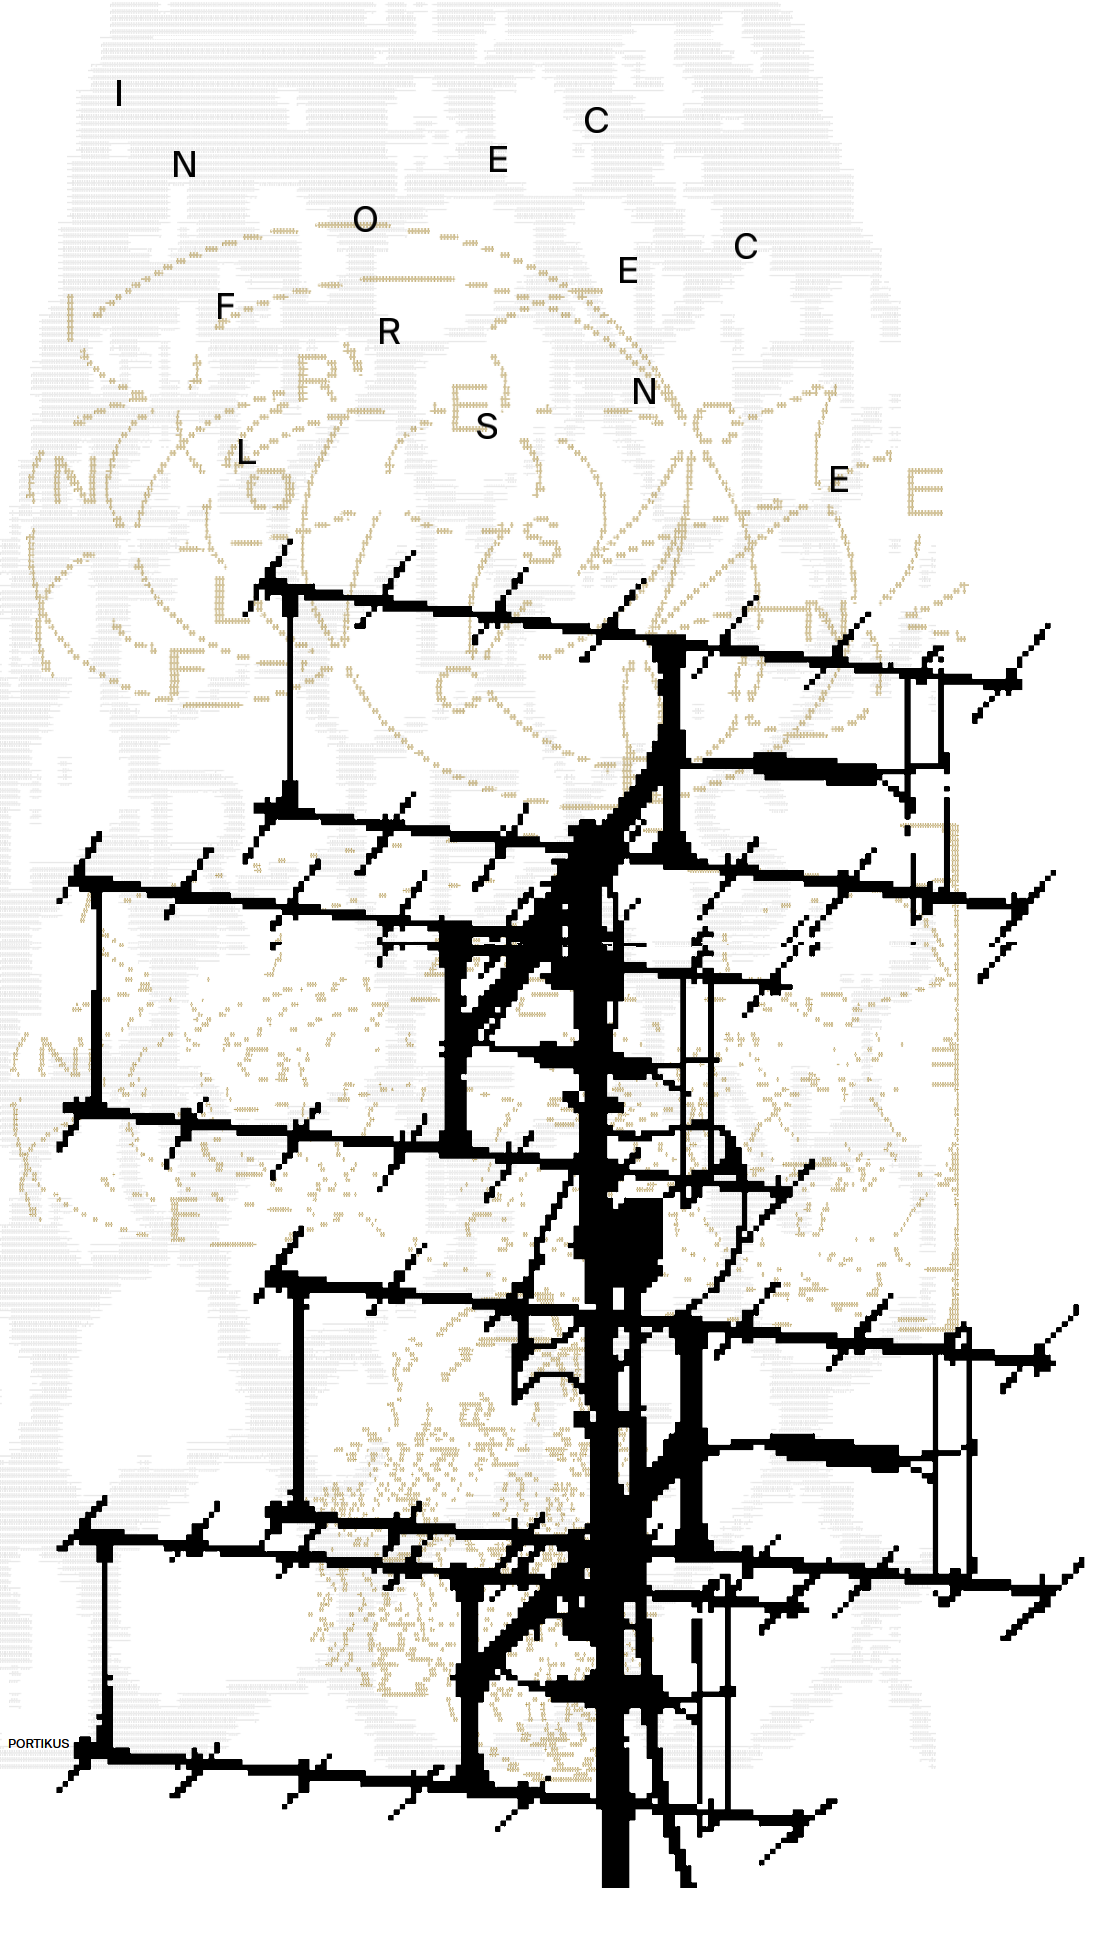
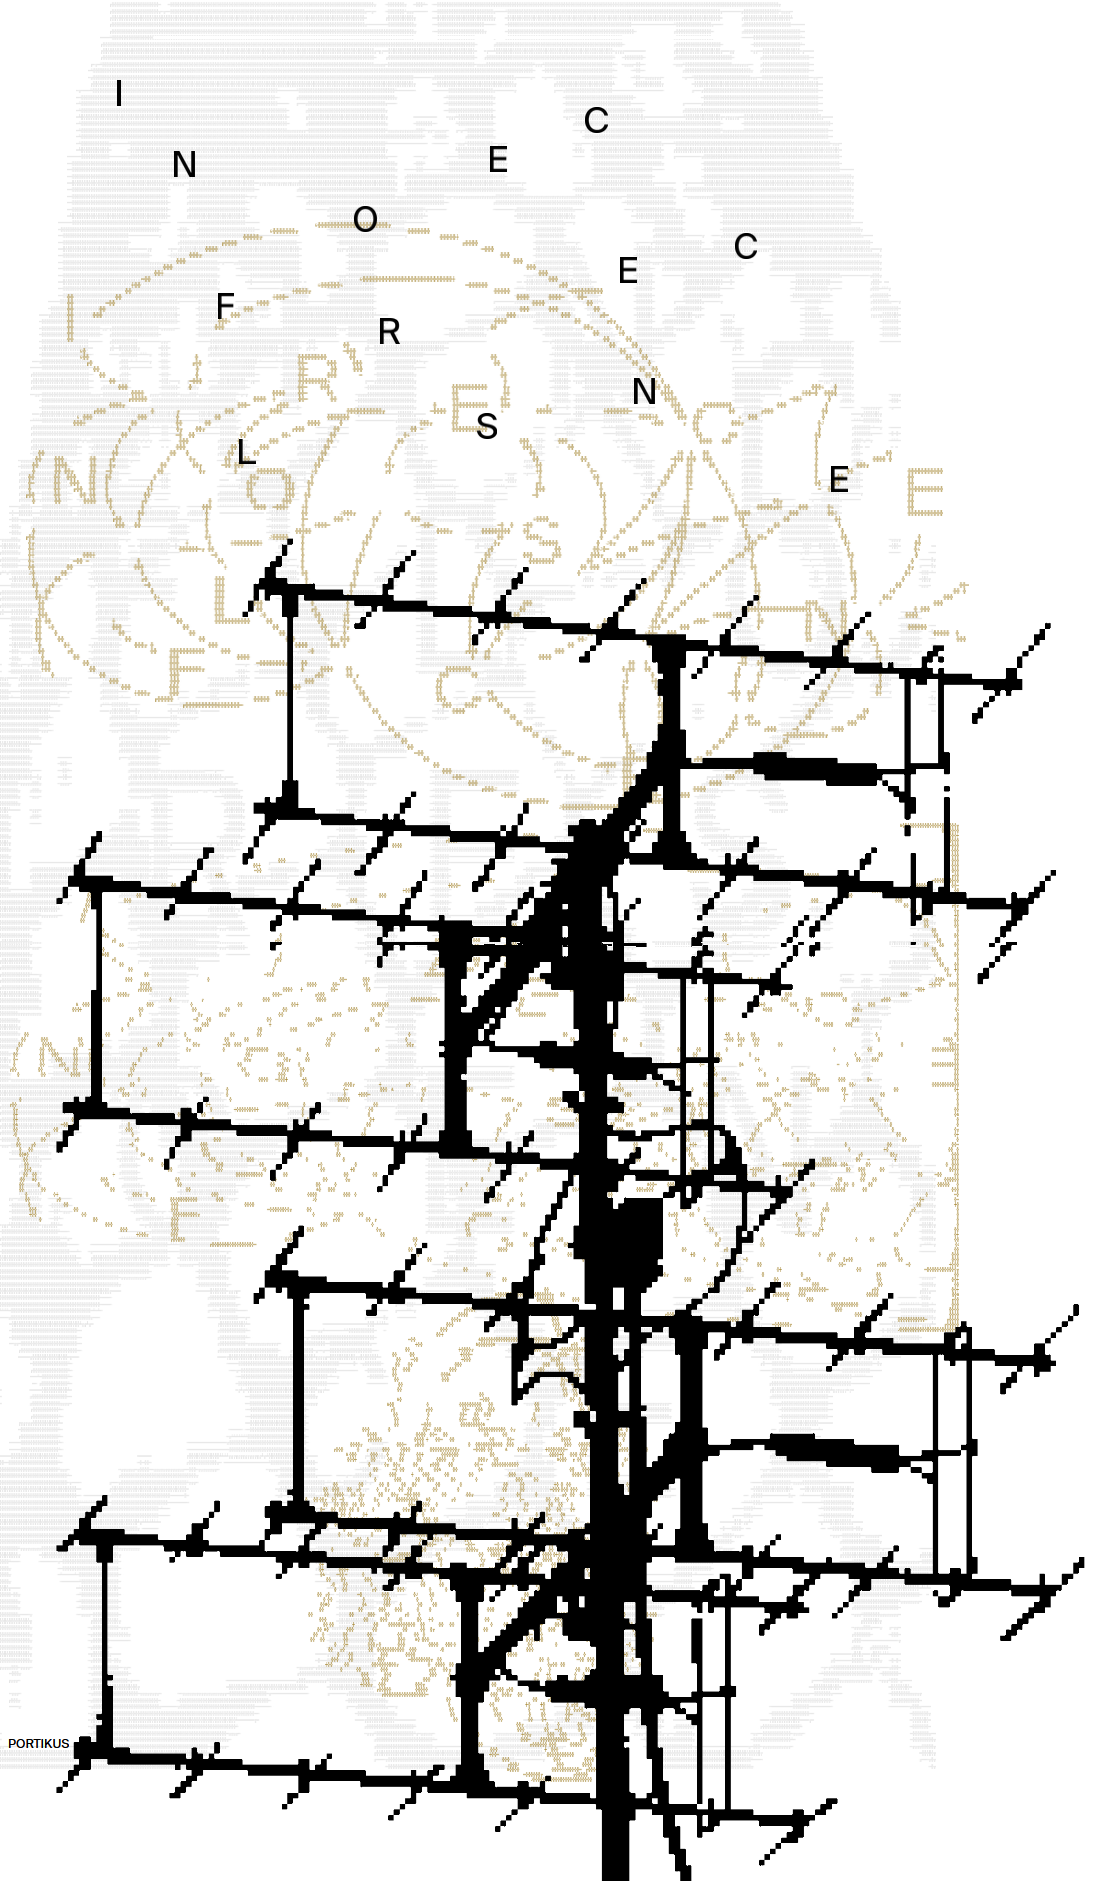
Correciones

diff --git a/About.html b/About.html
@@ -1,0 +1,115 @@
+<!DOCTYPE html>
+<html lang="en">
+<head>
+    <meta charset="UTF-8">
+    <meta http-equiv="X-UA-Compatible" content="IE=edge">
+    <meta name="viewport" content="width=device-width, initial-scale=1.0">
+    <script src="https://kit.fontawesome.com/a062562745.js" crossorigin="anonymous"></script>
+    <title>PORTIKUS</title>
+    <link rel="stylesheet" href="./image/favi.png" type="image/x-icon">
+    <link rel="stylesheet" href="./css/estilos3.css">
+    <link rel="stylesheet" href="./css/normalize.css">
+    <link rel=stylesheet href="./css/audioplayer.css" media=all>
+    <link rel="stylesheet" href="responsive-nav.css">
+    <script src="responsive-nav.js"></script>
+
+</head>
+<body>
+<header class="hero">
+    <nav class="nav container">
+        <div class="nav__logo">
+            <h2 class="nav__title" style="color:black">INFLORESCENCE</h2>
+            <h2 class="nav__title" style="color:black">Ximena Garrido-Lecca</h2>
+        </div>
+
+        <ul class="nav__link nav__link--menu">
+            <li class="nav__items">
+                <a href="About.html" class="nav__links">About</a>
+            </li>
+            <li class="nav__items">
+                <a href="Archive.html" class="nav__links">Archive</a>
+            </li>
+            <li class="nav__items">
+                <a href="index.html" class="nav__links">PORTIKUS</a>
+            </li>
+
+        </ul>
+        <div class="pulse red live" style="display:inline-block">
+            <span style="color:black">...LIVE</span>
+        </div>
+
+        <audio id="player" src="http://radioinflorescence.out.airtime.pro:8000/radioinflorescence_a"
+               type="audio/ogg" style="display: inline-block"></audio>
+        <div>
+            <button onclick="document.getElementById('player').play()">▷</button>
+            <button onclick="document.getElementById('player').pause()">☐</button>
+            <button onclick="document.getElementById('player').volume += 0.1">Vol +</button>
+            <button onclick="document.getElementById('player').volume -= 0.1">Vol -</button>
+        </div>
+        </div>
+
+    </nav>
+</header>
+<div class="container2">
+    <div class="container__text">
+        <h1>INFLORESCENCE</h1><br>
+        <p>Corn is one of the most important crops in the global economy. While it held a cen-tral position in<br>
+            pre-Columbian mythology and was a major source of nourishment, its origin as a plant native to the
+            Americas<br>
+            has been widely overlooked. Considered the origin of humanity by the Aztecs and Maya, the cultivation of<br>
+            corn has shaped all as-pects of life for millennia, from social environments to the measurements of time. In<br>
+            Ximena Garrido-Lecca’s exhibition Inflorescence at Portikus, the artist explores the crop’s multilayered<br>
+            meanings in relation to ancient beliefs, the colonial appropriation of knowledge and wealth, and the<br>
+            processes of modernization.<br><br>
+
+            Conceived in the fall months, the harvesting season of maize in Europe, the exhibi-tion links
+            traditional<br>
+            techniques of stacking and threshing corn in Latin America with the telecommunication infrastructures
+            that<br>
+            populate today’s rural areas. A series of sculptures made of corn plants from the fields of Hesse are<br>
+            mounted with antennas and megaphones that emit radio interferences as well as Mayan myths encrypted in Morse<br>
+            code. Composed of maize modules, vases, and stones, the circular threshing floor is a place for
+            gathering<br>
+            and regular activations for the production of the tradi-tional Peruvian drink chicha de jora (corn
+            beer).<br>
+            Regarded as the beverage of the gods by ancient civilizations, chicha de jora today is still a symbol of<br>
+            hospitality. By enhanc-ing ancient rituals centered around corn, systems of communication and the
+            commu-nal<br>
+            value of broadcasting, Garrido-Lecca creates a site where cultural transmissions and social exchanges
+            can<br>
+            take place. Considering cultural institutions not only pro-duce but also transmit knowledge, Portikus<br>
+            features a radio station over the course of the show. Radio Inflorescence is a bi-weekly program, comprising<br>
+            a series of com-missioned podcasts, material from the sound archives from Fonoteca Nacional de México
+            and<br>
+            shows developed in collaboration with the Frankfurt-based EOS Radio (www.eosradio.de) and Radio X (FM
+            91,8MHz).<br><br>
+
+            Inflorescence reflects on the radical shifts in our relationship to the natural world, fol-lowing industrial<br>
+            revolutions, social paradigms, and the current configuration of the information age. Both haystacks and<br>
+            antennas are also evocative of the rural land-scape, whose abandonment by capitalism has been a
+            continuous<br>
+            thread in the artist’s work.<br><br>
+
+            Ximena Garrido-Lecca (b. 1980 in Lima, Peru) is an artist based in Mexico City, Mexico. Her works have
+            been<br>
+            exhibited among others at the Museo Madre, Naples (2021), the 34th Bienal de São Paulo (2020), Museo de Arte<br>
+            Contemporáneo, Lima (2019), Museo de Arte Latinoamericano de Buenos Aires (2018), Sala de Arte Público<br>
+            Siqueiros (SAPS), Mexico City (2017). Inflorescence is the artist’s first institutional solo exhibition
+            in<br>
+            Germany.<br><br><br><br><br><br><br>
+        </p>
+        <div>
+            <h3>PORTIKUS Alte Brücke 2 / Maininsel 60594 Frankfurt am Main Germany</h3><br>
+            <h3 style="color:#a2832e">OPENING HOURS Tue–Fri 12–19h | Sat–Sun 11–19h</h3><br><br>
+        </div>
+    </div>
+    <script type="text/javascript">
+        window.addEventListener("scroll", function () {
+            var header = document.querySelector("nav");
+            header.classList.toggle("abajo", window.scrollY > 0);
+        })
+    </script>
+    <script src="./js/menu.js"></script>
+</div>
+</body>
+</html>

diff --git a/Archive.html b/Archive.html
@@ -7,7 +7,7 @@
     <script src="https://kit.fontawesome.com/a062562745.js" crossorigin="anonymous"></script>
     <title>PORTIKUS</title>
     <link rel="stylesheet" href="./image/favi.png" type="image/x-icon">
-    <link rel="stylesheet" href="./css/estilos.css">
+    <link rel="stylesheet" href="./css/estilos2.css">
     <link rel="stylesheet" href="./css/normalize.css">
     <link rel=stylesheet href="./css/audioplayer.css" media=all>
     <link rel="stylesheet" href="responsive-nav.css">
@@ -38,7 +38,7 @@
             <span style="color:black">...LIVE</span>
         </div>
 
-        <audio autoplay src="http://radioinflorescence.out.airtime.pro:8000/radioinflorescence_a"
+        <audio id="player" src="http://radioinflorescence.out.airtime.pro:8000/radioinflorescence_a"
                type="audio/ogg" style="display: inline-block"></audio>
         <div>
             <button onclick="document.getElementById('player').play()">▷</button>
@@ -51,37 +51,69 @@
     </nav>
 </header>
 
-
-<div class="container2">
-    <div class="container__text">
-        <h2 class="container__title">CREDITS</h2>
-        <h3 class="container__description">Director</h3>
-        <h4 class="container__description">Yasmil Raymond</h4><br>
-        <h3 class="container__description">Curators</h3>
-        <h4 class="container__description">Liberty Adrien & Carina Bukuts</h4><br>
-        <h3 class="container__description">PROJECT COORDINATION</h3>
-        <h4 class="container__description">Claudia Famulok & Nils Fock</h4><br>
-        <h3 class="container__description">PRESS</h3>
-        <h4 class="container__description">Mira Starke</h4><br>
-        <h3 class="container__description">TEACHER/PRODUCTION</h3>
-        <h4 class="container__description">Stefan Wleland</h4><br><br>
-
-        <div class="container2">
-            <h2>Upcoming broadcastings</h2>
-            <h4 style="color:#a2832e">25.11.22 | 02.12.22 | 09.12.22 | 23.12.22 | 06.01.23 | 13.01.23 | 27.01.23 |
-                03.02.23
-            </h4>
+<div class="audio--player" style="margin-top: 150px">
+    <audio id="myAudio" ontimeupdate="onTimeUpdate()">
+        <source id="source-audio" src="" type="audio/mpeg">
+    </audio>
+    <div class="player-ctn">
+        <div class="infos-ctn">
+            <div class="timer">00:00</div>
+            <div class="title"></div>
+            <div class="duration">00:00</div>
         </div>
+        <div id="myProgress">
+            <div id="myBar"></div>
+        </div>
+        <div class="btn-ctn">
+            <div class="btn-action first-btn" onclick="previous()">
+                <div id="btn-faws-back">
+                    <i class='fas fa-step-backward'></i>
+                </div>
+            </div>
+            <div class="btn-action" onclick="rewind()">
+                <div id="btn-faws-rewind">
+                    <i class='fas fa-backward'></i>
+                </div>
+            </div>
+            <div class="btn-action" onclick="toggleAudio()">
+                <div id="btn-faws-play-pause">
+                    <i class='fas fa-play' id="icon-play"></i>
+                    <i class='fas fa-pause' id="icon-pause" style="display: none"></i>
+                </div>
+            </div>
+            <div class="btn-play" onclick="forward()">
+                <div id="btn-faws-forward">
+                    <i class='fas fa-forward'></i>
+                </div>
+            </div>
+            <div class="btn-action" onclick="next()">
+                <div id="btn-faws-next">
+                    <i class='fas fa-step-forward'></i>
+                </div>
+            </div>
+            <div class="btn-mute" id="toggleMute" onclick="toggleMute()">
+                <div id="btn-faws-volume">
+                    <i id="icon-vol-up" class='fas fa-volume-up'></i>
+                    <i id="icon-vol-mute" class='fas fa-volume-mute' style="display: none"></i>
+                </div>
+            </div>
+        </div>
+        <div class="playlist-ctn"></div>
     </div>
+
 </div>
+</div>
+
+
+</div>
+
 <script type="text/javascript">
     window.addEventListener("scroll", function () {
         var header = document.querySelector("nav");
         header.classList.toggle("abajo", window.scrollY > 0);
     })
 </script>
-<script src="./js/menu.js"></script>
-
+<script src=./js/audioplayer.js></script>
 
 </body>
 </html>

diff --git a/js/menu.js b/js/menu.js
@@ -1,0 +1,17 @@
+(function(){
+    const openButton = document.querySelector('.nav__menu');
+    const menu = document.querySelector('.nav__link');
+    const closeMenu = document.querySelector('.nav__close');
+
+    openButton.addEventListener('click', ()=>{
+        menu.classList.add('nav__link--show');
+    });
+
+    closeMenu.addEventListener('click', ()=>{
+        menu.classList.remove('nav__link--show');
+    });
+
+
+
+
+})();

diff --git a/css/estilos2.css b/css/estilos2.css
@@ -57,7 +57,7 @@ h2 {
 
 body {
     font-family: 'SUISSEINTL-THIN', sans-serif;
-    background: url("../image/fondocompletoarchivo.png") no-repeat center center fixed;
+    background: url("../image/ENC_.png") no-repeat center center fixed;
 
 }
 
@@ -78,7 +78,7 @@ body {
 
 .container2 {
     width: 90%;
-    margin-top: 10px;
+    margin-top: 100px;
     background-color: transparent;
 }
 

diff --git a/css/audioplayer.css b/css/audioplayer.css
@@ -2,6 +2,7 @@ body {
     background-color: transparent;
     color: #ffc266;
     font-family: 'SUISSEINTL-THIN', sans-serif;
+
 }
 #myProgress {
     width: 420px;
@@ -18,6 +19,7 @@ body {
 .btn-action {
     padding-top: 10px;
     width: 30px;
+
 }
 .btn-ctn, .infos-ctn {
     display: flex;

diff --git a/css/estilos3.css b/css/estilos3.css
@@ -57,7 +57,7 @@ h2 {
 
 body {
     font-family: 'SUISSEINTL-THIN', sans-serif;
-    background: url("../image/fondocompletoarchivo.png") no-repeat center center fixed;
+    background: url("../image/fotocompletosinletras.png") no-repeat center center fixed;
 
 }
 
